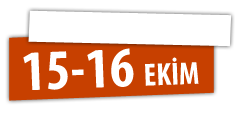
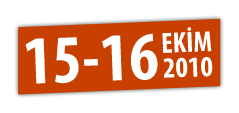
etkinlik basliyoru kaldiralim

diff --git a/www.ozgurwebgunleri.org.tr/wp-content/themes/owtgtema/header.php b/www.ozgurwebgunleri.org.tr/wp-content/themes/owtgtema/header.php
@@ -36,9 +36,7 @@ $sontweet_trimmed = ltrim($sontweet, "ozgurwebgunleri: #ozgurwebgunleri "); // h
 ?>
 <div id="sontweet"><a href="http://tuxweet.linux.org.tr/ozgurwebgunleri"><?php echo $sontweet_trimmed; ?></a></div>
 <div id="logo"><a href="http://www.ozgurwebgunleri.org.tr"><img src="<?php bloginfo('template_url'); ?>/resimler/bosluk.gif" alt="Logo" /></a></div>
-<div id="etkinlikgerisayim">
-<div class="etkinlige">ETKİNLİK BAŞLIYOR</div>
-</div>
+<div id="etkinlikgerisayim"></div>
 </div>
 </div>
 
